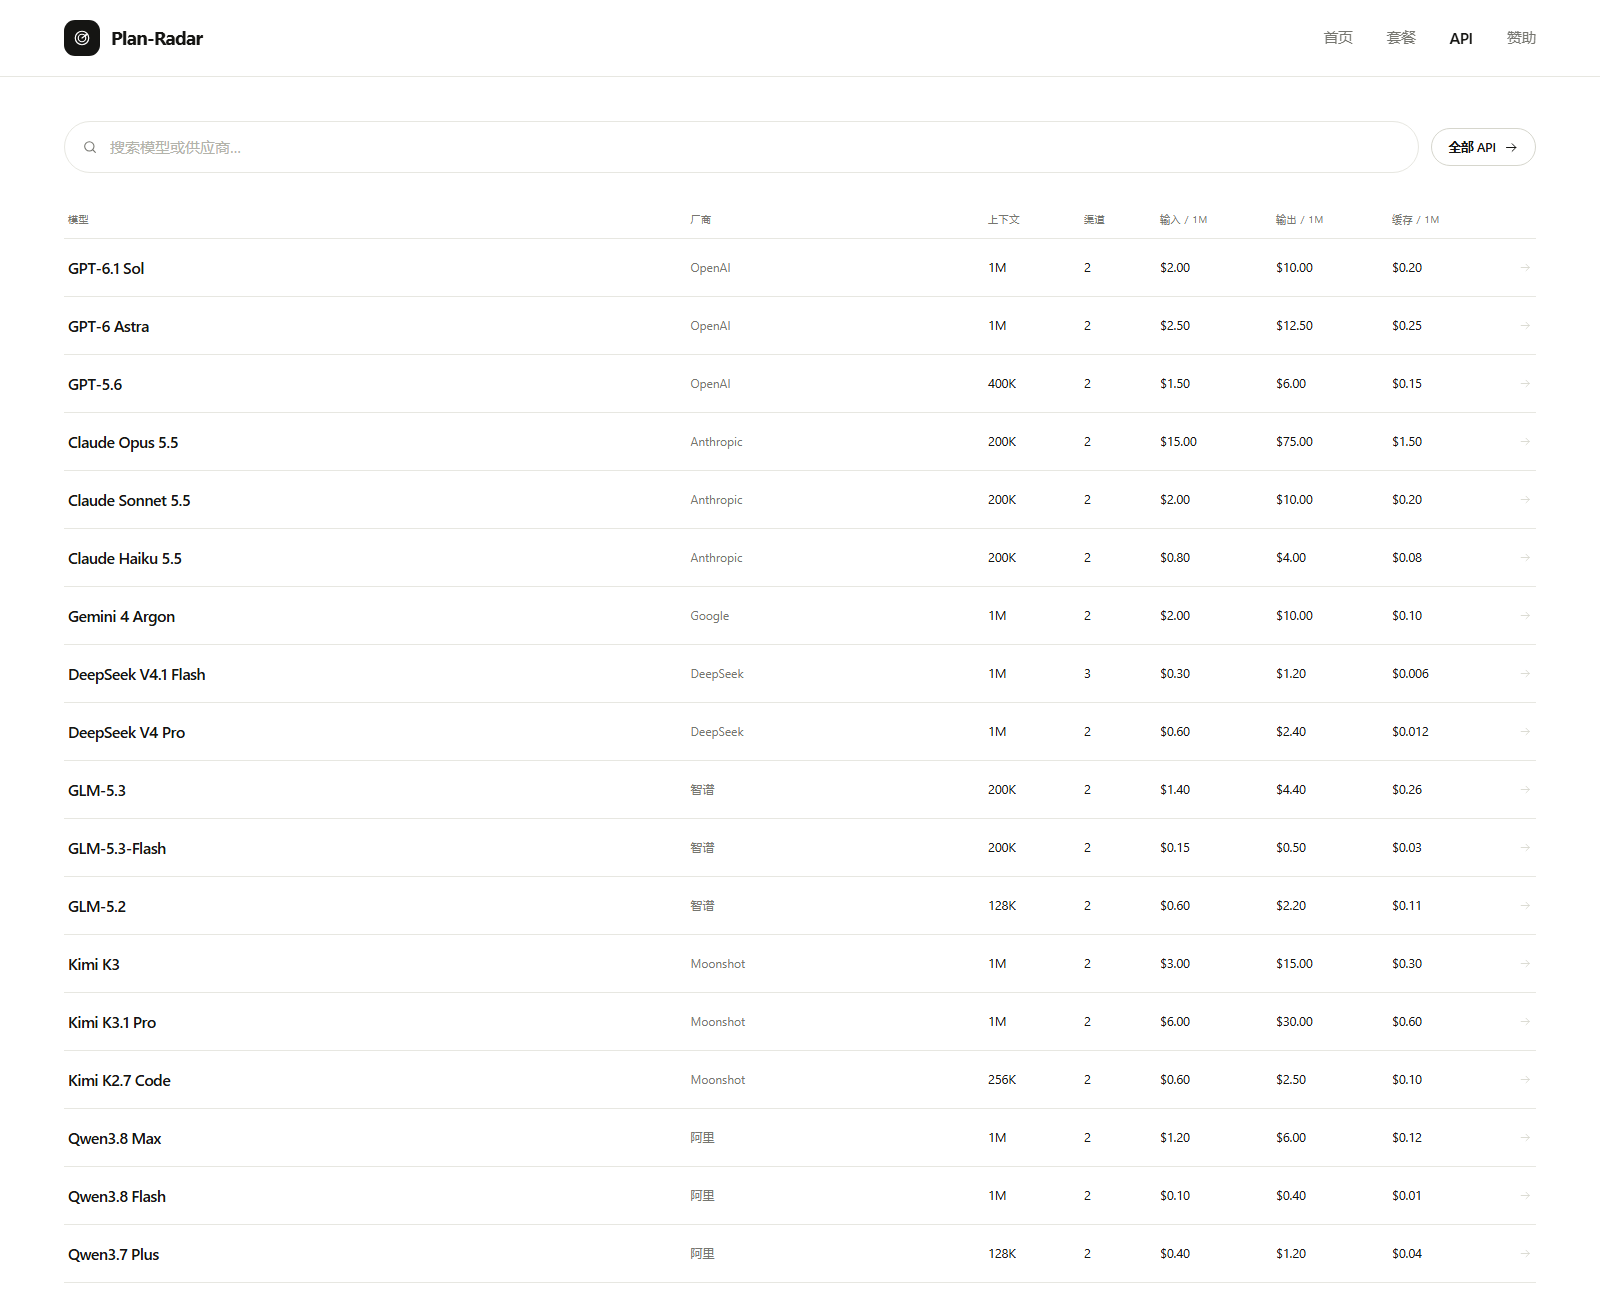
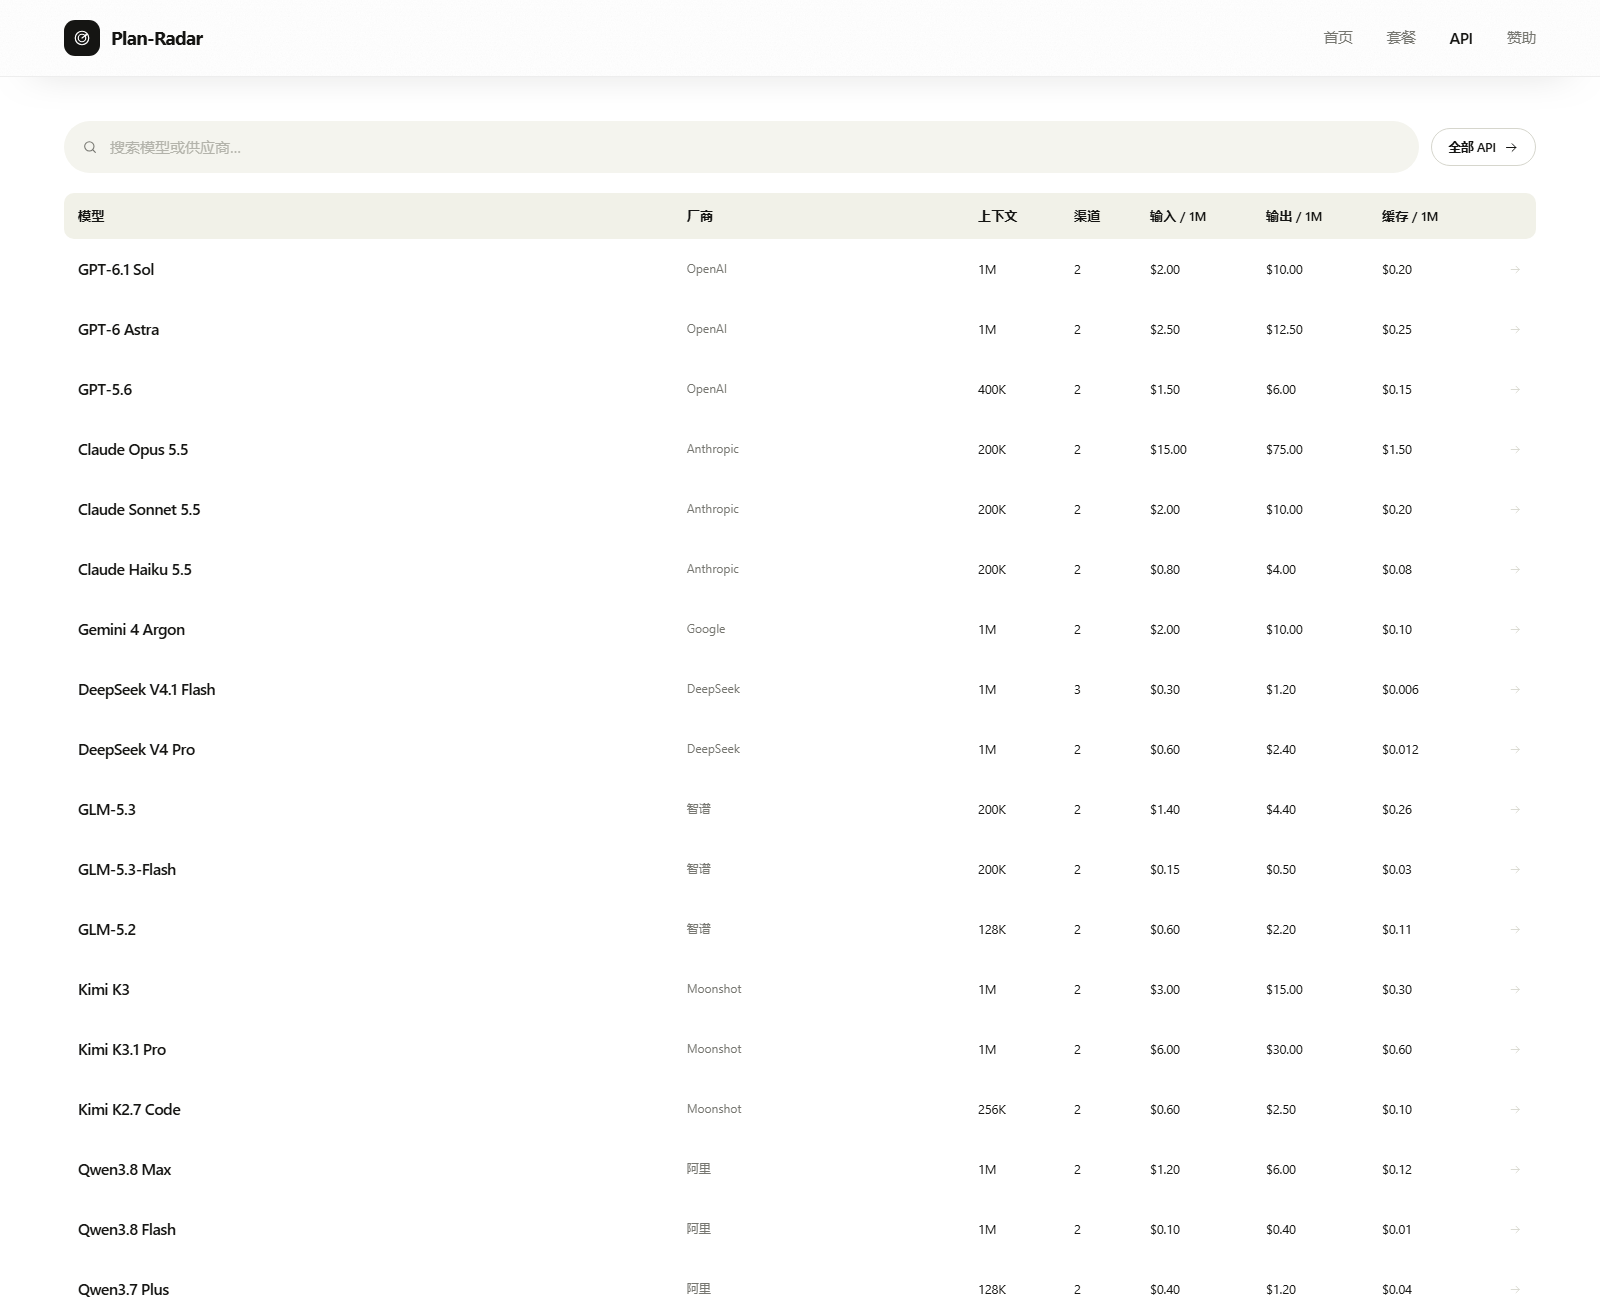
fix: strengthen table headers and drop site stats line

diff --git a/app/globals.css b/app/globals.css
@@ -812,7 +812,6 @@ a[data-href] { cursor: pointer; }
 }
 
 .model-table-wrap { margin-top: 20px; overflow-x: auto; }
-.catalog-summary { margin-top: 14px; font-size: 10.5px; color: var(--muted); }
 .model-table { min-width: 860px; }
 .model-table-plans { min-width: 860px; }
 .model-table-head,
@@ -824,14 +823,15 @@ a[data-href] { cursor: pointer; }
   grid-template-columns: minmax(220px, 1.4fr) minmax(90px, 0.65fr) 80px 60px 100px 100px 100px 24px;
 }
 .model-table-head {
-  min-height: 44px;
+  min-height: 46px;
   padding: 0 14px;
   border-bottom: 0;
   border-radius: 10px;
-  background: #f4f4ee;
-  font-size: 10px;
-  letter-spacing: 0.06em;
-  color: var(--muted);
+  background: #f1f1e8;
+  font-size: 13px;
+  font-weight: 600;
+  letter-spacing: 0.01em;
+  color: var(--ink);
 }
 .model-row {
   min-height: 60px;

diff --git a/components/ModelTable.tsx b/components/ModelTable.tsx
@@ -16,7 +16,6 @@ interface ModelTableProps {
   mode: "plans" | "api";
   allHref?: string;
   allLabel?: string;
-  summary?: string;
 }
 
 export function ModelTable({
@@ -24,7 +23,6 @@ export function ModelTable({
   mode,
   allHref,
   allLabel,
-  summary,
 }: ModelTableProps) {
   const [query, setQuery] = useState("");
   const keyword = query.trim().toLowerCase();
@@ -68,8 +66,6 @@ export function ModelTable({
           </a>
         ) : null}
       </div>
-
-      {summary ? <p className="catalog-summary">{summary}</p> : null}
 
       <div className="model-table-wrap">
         <div className={`model-table model-table-${mode}`}>

diff --git a/app/api/page.tsx b/app/api/page.tsx
@@ -24,7 +24,6 @@ export default function ApiPage() {
         mode="api"
         allHref="/api/all/"
         allLabel="全部 API"
-        summary={`全站 ${modelCatalog.length} 个模型 · ${apiChannels.length} 个 API 渠道`}
       />
     </div>
   );

diff --git a/app/plans/page.tsx b/app/plans/page.tsx
@@ -25,7 +25,6 @@ export default function PlansPage() {
         mode="plans"
         allHref="/plans/all/"
         allLabel="全部套餐"
-        summary={`全站 ${modelCatalog.length} 个模型 · ${allPlans.length} 个套餐`}
       />
     </div>
   );
